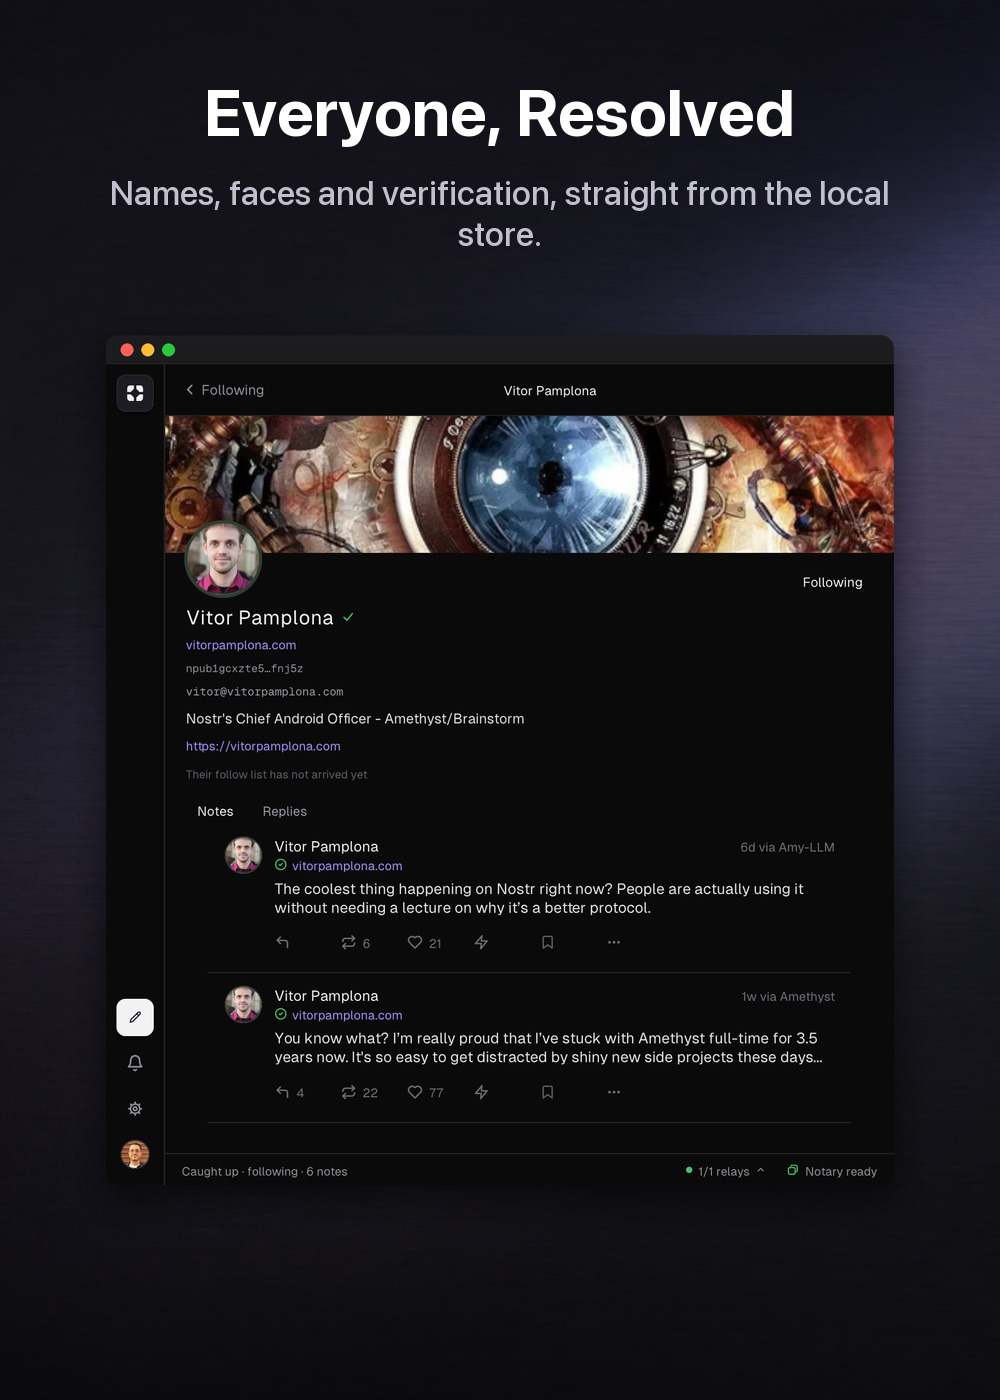
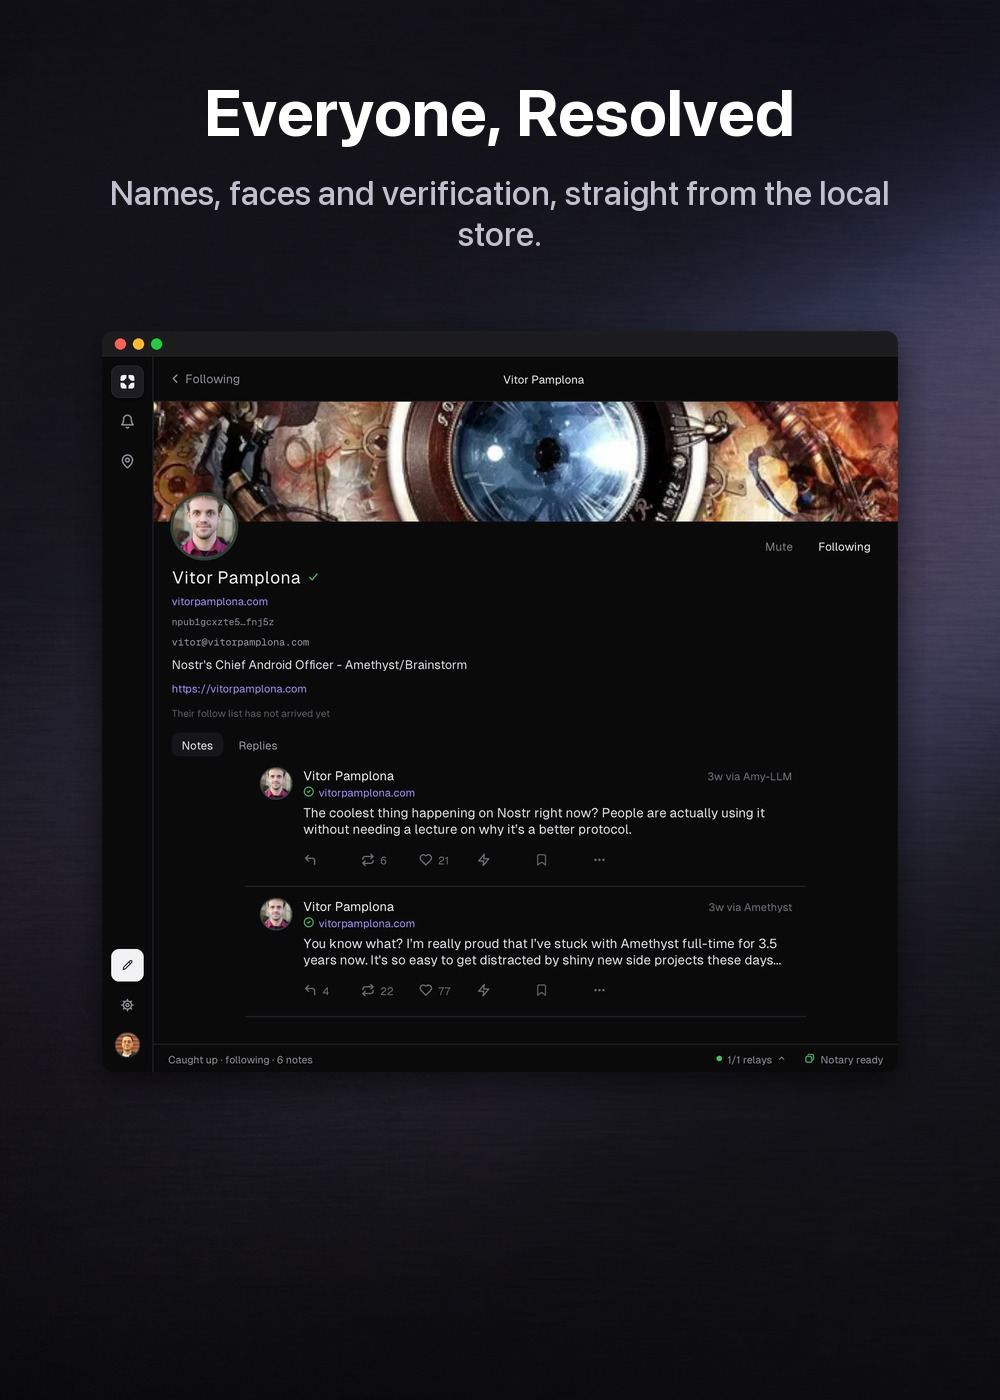
Retake the screenshots, and show places (#257)
The published shots were taken at around v0.2.x. They predate the rails,
places and the Info card, and they were taken before the font baseline fix,
so every one of them showed the two-point text misalignment that shipped
fixed in v0.12.0. The README opened with a picture of a version nobody can
install any more.

Retaken at 880pt wide, which is the window's real floor now that the rails
have landed: app.zon puts min_width there, so the 760 the old shots used is
a width the app no longer has. The feed column is a fixed 620pt, so text
wraps identically at any width above that and only the margins change.
Heights are measured off the widget bounds rather than guessed, so each shot
ends on a whole card instead of slicing the next one in half.

Adds a fourth panel for places, which shipped in v0.12.0 and had no picture
anywhere. The README says what a plaza://place/ link does for the first
time, in the status paragraph beside everything else a first run gets.

diff --git a/README.md b/README.md
@@ -17,15 +17,17 @@ client.
 > rendered straight from a local store that a pool of background threads keeps
 > filled, one process, no IPC. Composing signs a note (locally, or by a
 > round-trip to the signer) that is stored at once and published to the pool.
-> Private messages land in a milestone ahead. macOS first.
+> A `plaza://place/` link opens somebody else's corner of Nostr, their relays and
+> their people, without disturbing your own. Private messages land in a milestone
+> ahead. macOS first.
 
 ![Plaza: a native feed read from disk. Zig and Metal, no Electron, and the feed is a local query.](docs/shots/hero.jpg)
 
 ## What it looks like
 
-| | | |
-| --- | --- | --- |
-| ![The feed is a local query: it renders from disk, so it is there before the network is](docs/shots/panel-feed.jpg) | ![Everyone resolved: names, faces and verification, straight from the local store](docs/shots/panel-profile.jpg) | ![Conversations in full: replies nest where they belong, reconciled in the background](docs/shots/panel-thread.jpg) |
+| | | | |
+| --- | --- | --- | --- |
+| ![The feed is a local query: it renders from disk, so it is there before the network is](docs/shots/panel-feed.jpg) | ![Everyone resolved: names, faces and verification, straight from the local store](docs/shots/panel-profile.jpg) | ![Conversations in full: replies nest where they belong, reconciled in the background](docs/shots/panel-thread.jpg) | ![Places you enter: a link opens somebody else's relays and people, and yours stay where they are](docs/shots/panel-places.jpg) |
 
 <sub>Real windows, photographed from the running app against real notes from
 public relays. Every pixel inside the window is the app's own, so nothing here
